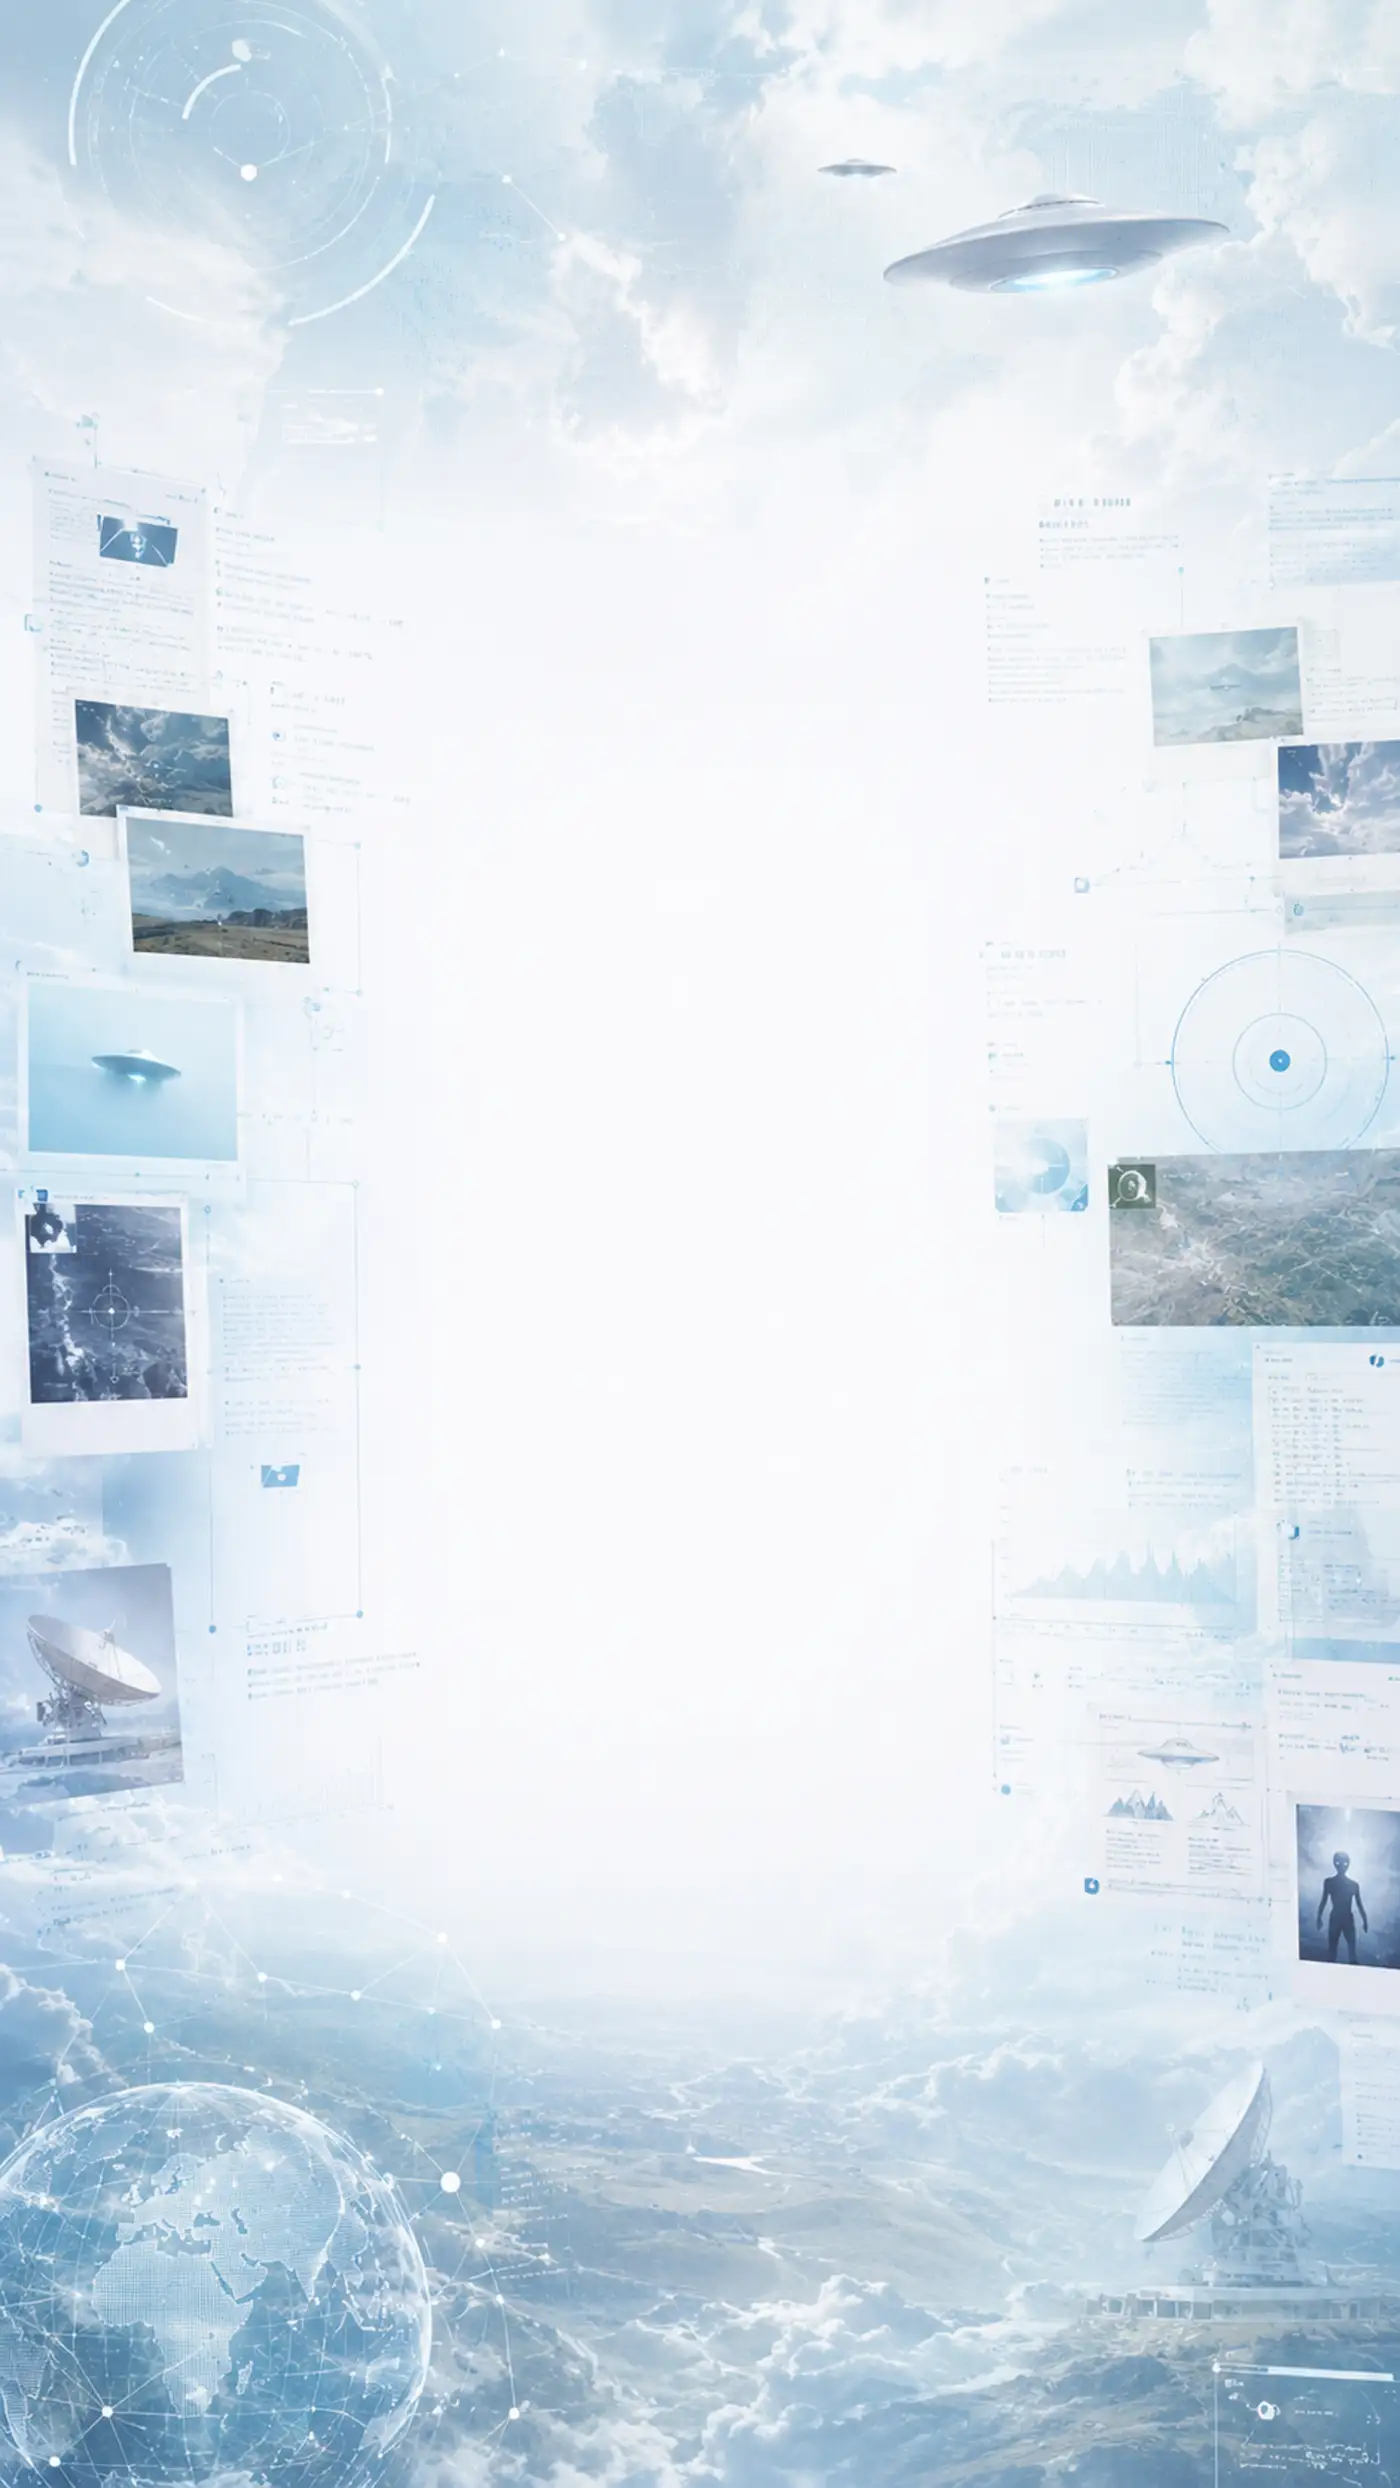
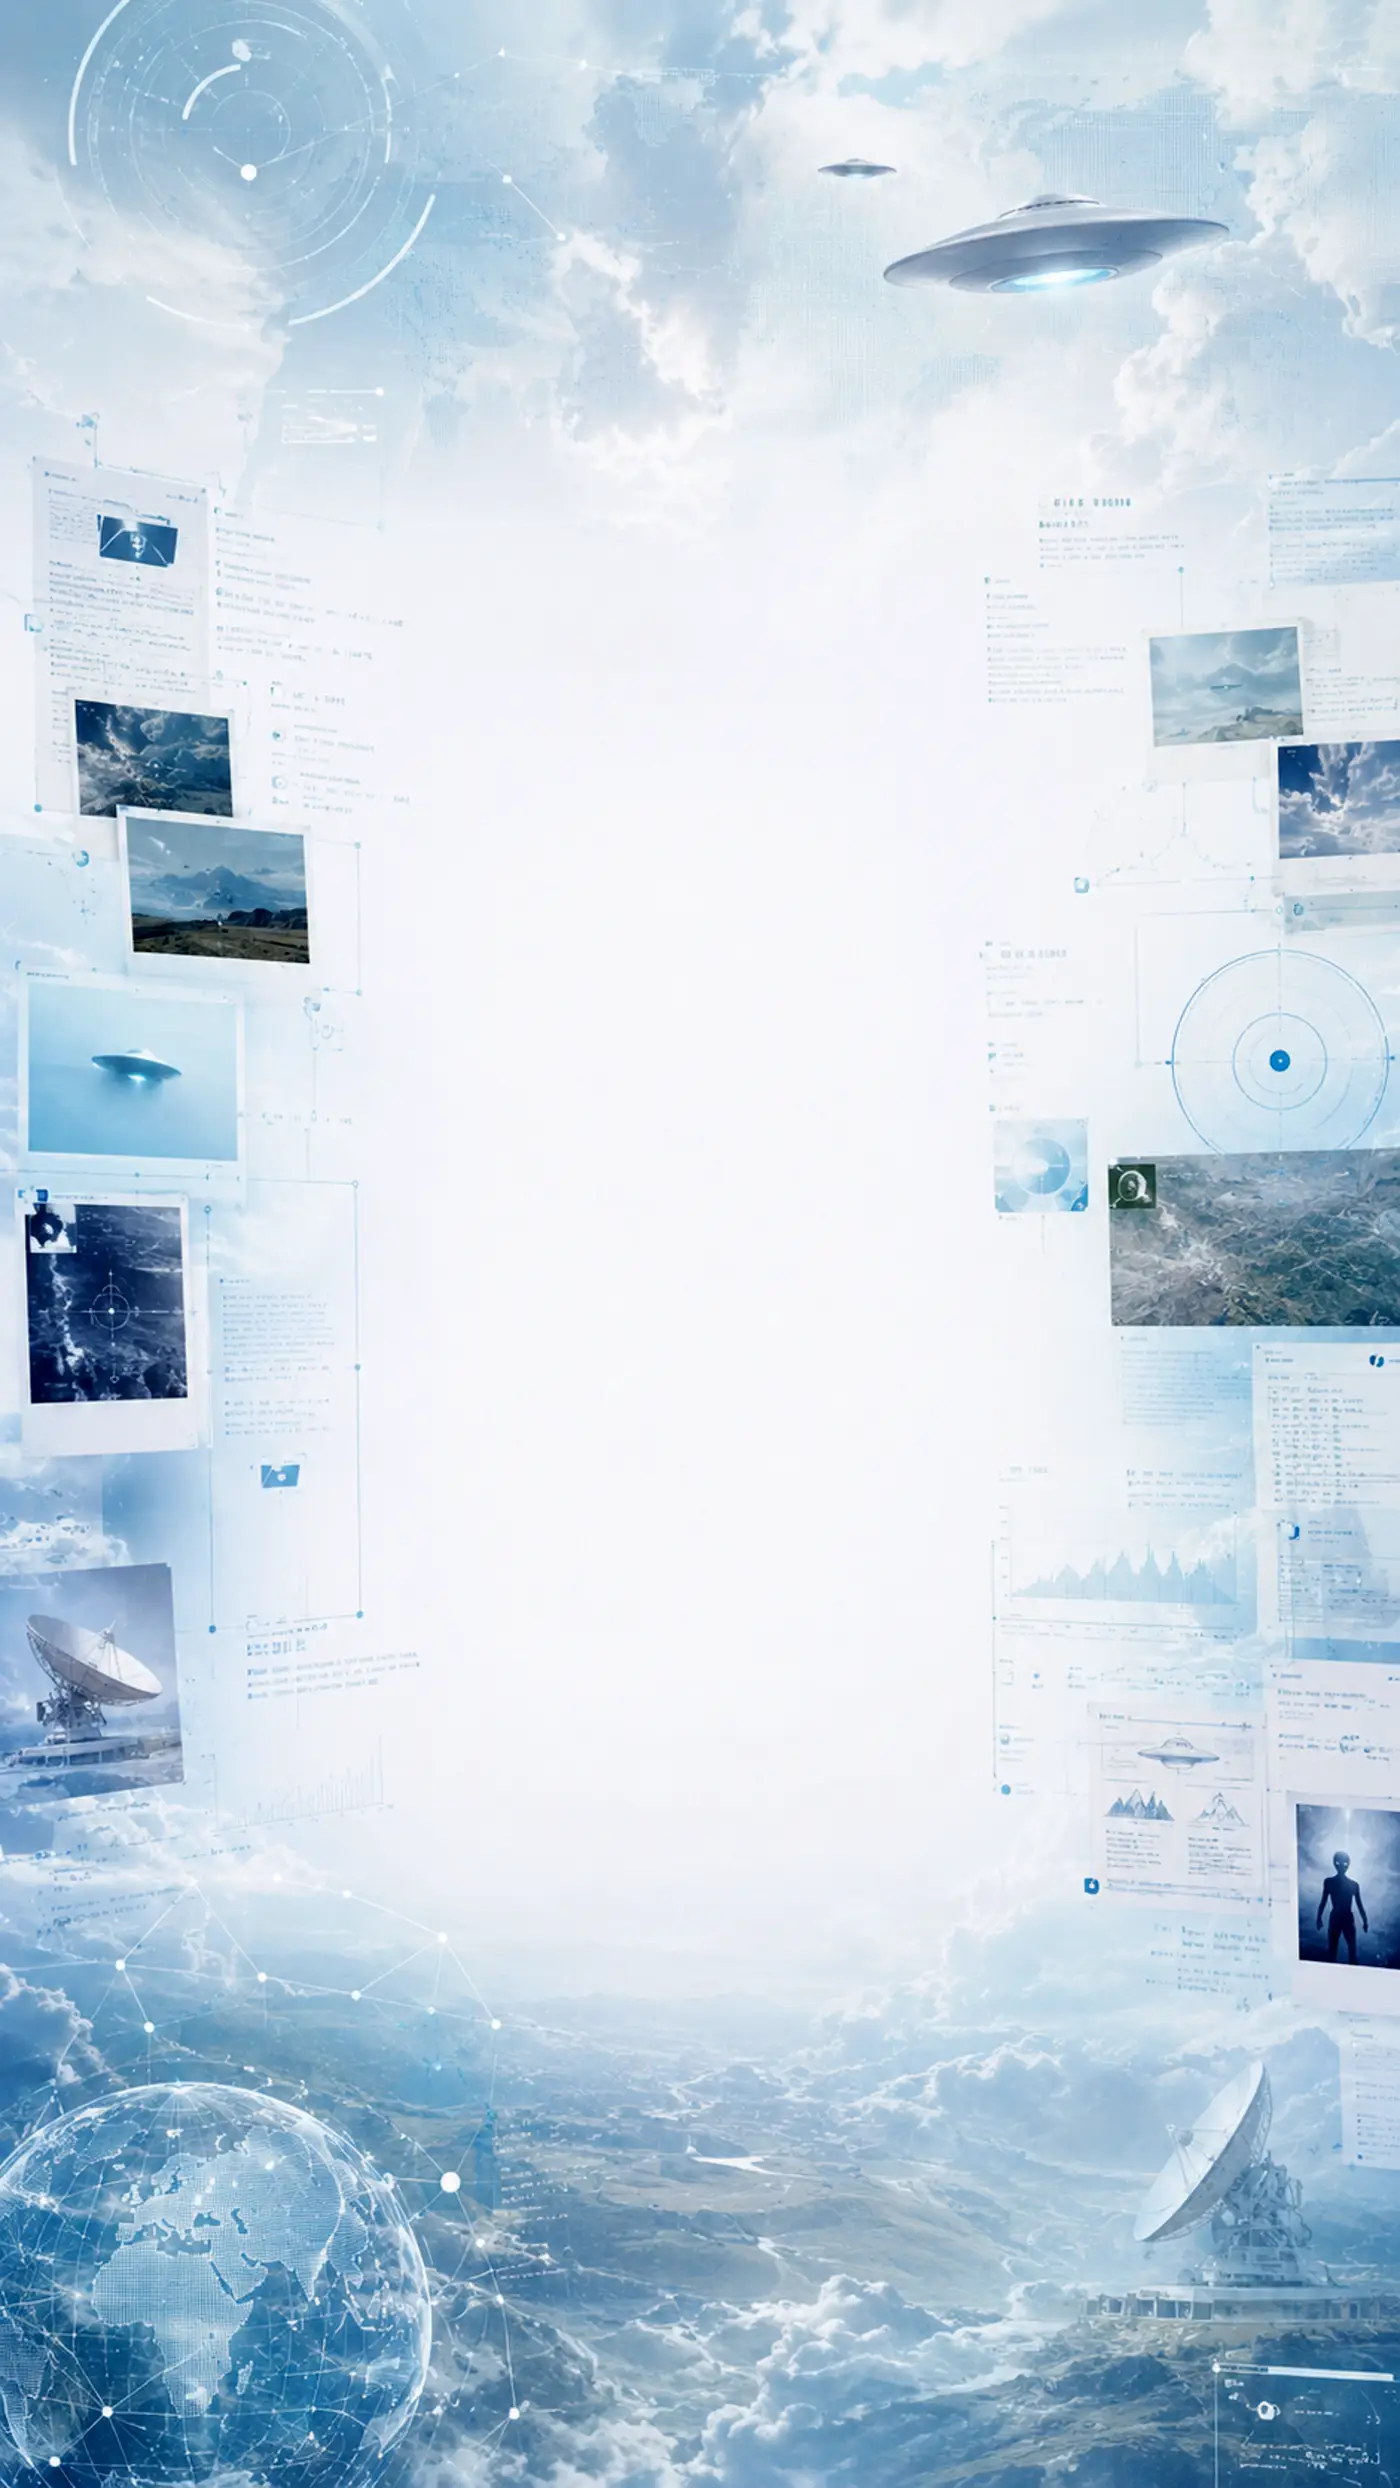
Make the light backdrop visible by deepening its darks, not raising opacity
The light artwork is near-white and so is the paper background it sits on, so
there was nothing to distinguish them and fading it to 18% only removed what
little there was. Opacity was the wrong lever.

Its saucers, document cards and dishes are the only parts that can read against
pale paper, so the file now has its dark tones pushed down while white stays
exactly white and keeps blending invisibly into the page. Pixels below mid-grey
went from 1.4% to 6.4% of the image, mean from 215 to 197, with max still 255.

With something actually there to see, opacity goes up to 55%.

diff --git a/scripts/optimize-images.ts b/scripts/optimize-images.ts
@@ -25,6 +25,18 @@ interface Job {
   width: number;
   quality: number;
   note: string;
+  /**
+   * Deepen the dark tones while leaving the light ones alone.
+   *
+   * Needed for the light-theme backdrop: the artwork is near-white and so is
+   * the page it sits on, so nothing distinguishes them and lowering opacity
+   * only makes that worse. Its saucers, document cards and dishes are the only
+   * parts that can read at all, so those are pushed darker while the whites
+   * stay white and keep blending invisibly into the paper.
+   *
+   * Applied as out = slope * in + offset, anchored so white stays white.
+   */
+  deepenDarks?: number;
 }
 
 const JOBS: Job[] = [
@@ -47,8 +59,9 @@ const JOBS: Job[] = [
     from: "Bright theme back.jpg",
     to: "backdrop-light.webp",
     width: 1400,
-    quality: 62,
+    quality: 68,
     note: "light theme backdrop",
+    deepenDarks: 1.45,
   },
 ];
 
@@ -61,10 +74,19 @@ async function main() {
 
     const before = (await stat(from)).size;
 
-    const info = await sharp(from)
-      .resize({ width: job.width, withoutEnlargement: true })
-      .webp({ quality: job.quality })
-      .toFile(to);
+    let pipeline = sharp(from).resize({
+      width: job.width,
+      withoutEnlargement: true,
+    });
+
+    if (job.deepenDarks) {
+      // Anchoring the offset at 255 keeps pure white exactly where it is, so
+      // the page background stays clean and only the darker shapes gain weight.
+      const slope = job.deepenDarks;
+      pipeline = pipeline.linear(slope, 255 * (1 - slope));
+    }
+
+    const info = await pipeline.webp({ quality: job.quality }).toFile(to);
 
     const saved = Math.round((1 - info.size / before) * 100);
 

diff --git a/src/components/home-backdrop.tsx b/src/components/home-backdrop.tsx
@@ -16,10 +16,15 @@ export function HomeBackdrop() {
       aria-hidden
       className="pointer-events-none fixed inset-0 -z-10 overflow-hidden"
     >
-      {/* Light theme. Lower opacity than the dark one: the artwork is pale and
-          sits under dark ink, so it washes out contrast far more easily. */}
+      {/* Light theme. Runs higher than it first did, because lowering opacity
+          was the wrong lever entirely: the artwork is near-white and so is the
+          paper it sits on, so fading it just removed what little there was to
+          see. The file itself now has its dark tones deepened (see
+          scripts/optimize-images.ts), and those shapes are what shows. The
+          white areas still blend invisibly into the background, which is
+          exactly what should happen to them. */}
       <div
-        className="absolute inset-0 bg-cover bg-top bg-no-repeat opacity-[0.18] dark:hidden"
+        className="absolute inset-0 bg-cover bg-top bg-no-repeat opacity-55 dark:hidden"
         style={{
           backgroundImage: "url(/images/backdrop-light.webp)",
           maskImage:
